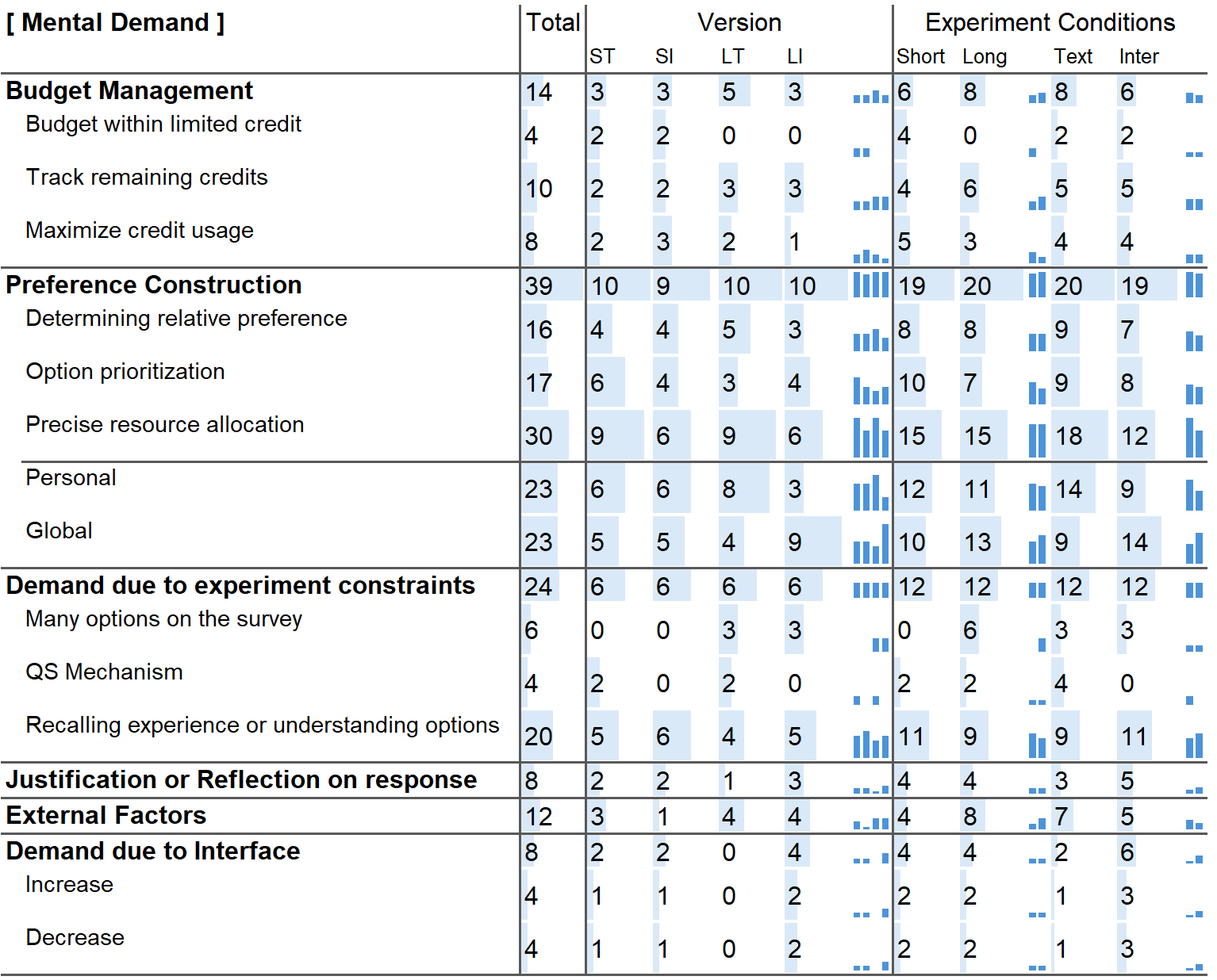
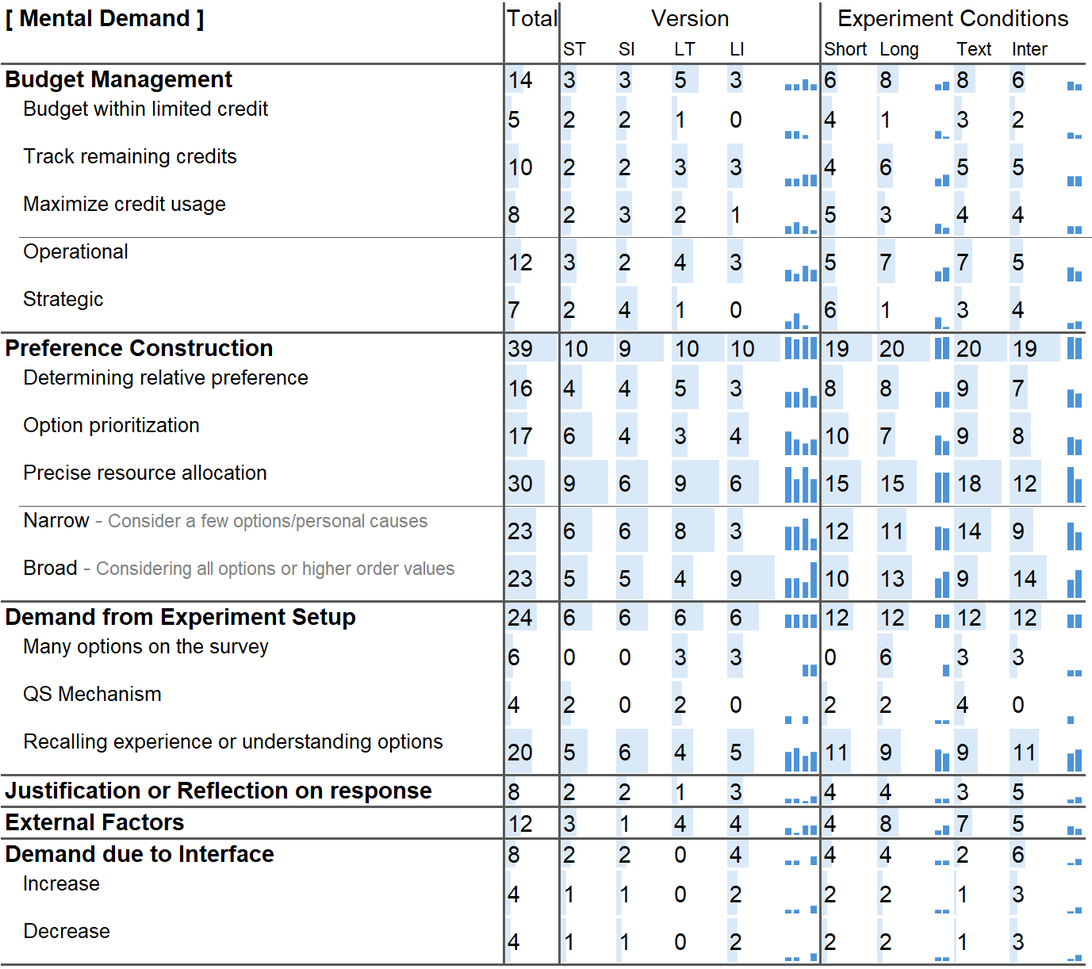
Update results

diff --git a/content/3.1_cognitive_load.tex b/content/3.1_cognitive_load.tex
@@ -30,19 +30,18 @@
 \end{figure}
 
 % maybe more the figure to the appendix?
-
-\vk{the binning here feels a bit narrow for how I feel like age is usually reported. Also is the 15-19 bin not just 18, and 19? Since 15 year olds weren't included, I probably wouldn't compare our percent to the national average}
-
-\section{Cognitive Load across interface and their sources}
+\section{Cognitive Load and Sources across Experiment Conditions}
 \label{sec:cog_result}
-In this section, we present the cognitive load across experiment groups, followed by the sources contributing to each cognitive load dimension. Given the limited number of participants, we focus on descriptive quantitative statistics and qualitative assessments of cognitive load. Quantitative data includes metrics collected during the survey tasks, while qualitative insights were generated from post-survey interviews, which were transcribed and thematically analyzed by the first author.
+In this section, we present the cognitive load across experiment groups and the sources contributing to each cognitive load dimension. Given the limited number of participants, we focus on descriptive statistics and qualitative assessments of cognitive load. Quantitative data includes metrics from the survey tasks, while qualitative insights come from post-survey interviews transcribed and analyzed by the first author.
 
-The results are organized as follows: We start with a description of participant demographics, followed by an overview of our cognitive load findings. We then examine six dimensions used in the NASA-TLX survey in the following order: mental demand, physical demand, temporal demand, performance, effort, and frustration. 
+The first author conducted an inductive thematic analysis process~\cite{olsonWaysKnowingHCI2014}. They coded snippets from each transcript based on specific research questions and topics of interest for the qualitative analysis. Similar codes were merged within each research question or topic to form relevant themes. When differences were hypothesized, they applied a deductive coding process to text snippets related to a specific research question or topic of interest.
+
+The results for this section are organized as follows: We start with participant demographics and then provide an overview of our cognitive load findings. We then examine the six dimensions used in the NASA-TLX survey: mental demand, physical demand, temporal demand, performance, effort, and frustration.
 
 \subsection{Demographics}
-We recruited a total of $41$ participants, allocating ten to each experiment condition. Due to data quality concerns, we excluded one participant's data\footnote{The participant expressed the experiment as a fake setup that they do not need to complete it seriously.}. The mean age of the participants was $34.63$ years old, with a detailed age distribution presented alongside the county population distribution in Figure~\ref{fig:demoAge}. This comparison reveals that our sample closely matches the county's demographic profile, albeit with a slightly higher representation of younger adults, particularly in the 35-45 age range. As shown in Figure~\ref{fig:demoGender}, the majority of participants skewed toward female.
+We recruited a total of $41$ participants, allocating ten to each experiment condition. Due to data quality concerns, we excluded one participant's data\footnote{The participant expressed the experiment as a fake setup that they do not need to complete it seriously.}. The mean age of the participants was $34.63$ years old, with a detailed age distribution presented alongside the county population distribution in Figure~\ref{fig:demoAge}. This comparison reveals that our sample closely matches the county's demographic profile, albeit with a slightly higher representation of younger adults, particularly in the 35-45 age range. As shown in Figure~\ref{fig:demoGender}, the majority of participants skewed toward females.
 
-Regarding ethnicity, $51.2\%$ of the participants identified as White, $26.8\%$ as Asian, $7.3\%$ as African American and $4.9\%$ as Hispanic. Additionally, $9.8\%$ of participants reported mixed ethnicity.
+Regarding ethnicity, $51.2\%$ of the participants identified as White, $26.8\%$ as Asian, $7.3\%$ as African American, and $4.9\%$ as Hispanic. Additionally, $9.8\%$ of participants reported mixed ethnicity.
 
 \subsection{Overall Cognitive Load}
 \label{sec:cog}
@@ -61,7 +60,7 @@ Regarding ethnicity, $51.2\%$ of the participants identified as White, $26.8\%$ 
         \caption{NASA-TLX Cognitive Interpretation}
         \label{fig:nasatlx-final2}
     \end{subfigure}
-    \caption{NASA-TLX Results}
+    \caption{This figure shows the box plot results for weighted NASA-TLX scores across experiment groups and participant counts based on individual score interpretations. In~\ref{fig:nasatlx-final1}, we observe a downward trend in cognitive load for the short QS, while the long QS shows an upward trend. Interestingly, there is a counterintuitive downward trend between short and long text interfaces. In~\ref{fig:nasatlx-final2}, these trends are clearer when NASA-TLX scores are grouped into five tiers.}
     \label{fig:nasatlx-final}
 \end{figure}
 
@@ -82,28 +81,13 @@ By deduction, if the interactive interface increased cognitive load in the long 
 
 \paragraph{Cognitive Overload Prevention by Interactive Interface} The long survey caused cognitive overload, but the interactive components may have prevented participants from taking mental shortcuts, which would typically reduce measured cognitive load~\cite{daniel2017thinking, simonBehavioralModelRational1955, payneAdaptiveStrategySelection1988, tverskyJudgmentsRepresentativeness}. This prevention could result in a higher cognitive load in the long interactive interface compared to the long text interface. In other words, the interactive interface may have shifted participants' cognitive load from some dimensions to others, maintaining their overall cognitive load at a higher level but not overloaded. If this is true, we expect to see differences among the qualitative explanations of sources, specifically differences in the perceived causes of cognitive load. We will explore this in the next subsections (Subsections~\ref{sec:mental}-\ref{sec:fustration}).
 
-\paragraph{A Pure Increase of Cognitive Load Due to Interactivity} It is also possible that the long survey introduced cognitive overload, and the interactive interface did not influence participants' preference construction but only increased cognitive load due to the added interactivity. In other words, participants are asked to perform additional operations with interactive elements that contributed to a higher cognitive load without providing sufficient cognitive benefits. If this is true, we should expect behavior data to show similar voting patterns across conditions, as the added interactions primarily focused on pre-organization of the options rather than influencing the decision-making process itself. We will explore this in the section~\ref{sec:behave_result}
+\paragraph{A Pure Increase of Cognitive Load Due to Interactivity} It is also possible that the long survey introduced cognitive overload, and the interactive interface did not influence participants' preference construction but only increased cognitive load due to the added interactivity. In other words, participants are asked to perform additional operations with interactive elements that contribute to a higher cognitive load without providing sufficient cognitive benefits. If this is true, we should expect behavior data to show similar voting patterns across conditions, as the added interactions primarily focused on the pre-organization of the options rather than influencing the decision-making process itself. We will explore this in the section~\ref{sec:behave_result}.
 
 We also acknowledge the possibility that the elicited values are pure noise and do not reflect the actual cognitive load. This could be due to the small sample size, the nature of the task, or the participants' understanding of the cognitive load scale. While this might be true for small sample sizes, we believe that the qualitative insights from the interviews provide a more nuanced understanding of the cognitive load sources. We detail these limitations in Section~\ref{sec:limitations}.
 
-/hs{ what was your process to identify themes?}
-/hs{Section 5.3 (snd section 5 overall) is too long. 
-
-Instead, you could break up section 5 into two sections, one on cognitive  load analysis and the other on behavioral analysis. 
-
-You need to explain in some detail, how you identified the codes for each facet; did you follow a well established process (cite). It'll be nice if you can add a table to summarize the statitucs from the qualitative sections (e.g. how many in each of the experimental consitions felt tha budget management was important to mental demand), You have all the data in the text, and a table would be helpful 
-
-In this new section 5, have a subsection for each of the six facets. Then, take each the six subfigures of fig 12, and use either a wrapfig environment or a side caption figure to insert each of the six subfigures into each of the subsections of this new section 5; this way, the figure will be adjacent to the text for enhanced readability.
-
-Each of the subsections corresponding to each of the dimensions of the scale, you should conclude with a takeaway mesaage. There is so much text here, and it will be easy to be lost.
-
-Section 5.5 and 5,6 should be in the behavioral analysis section
-
-Section 5.7 should be in a discussion section}
-
 % ============================================= %
 \begin{table}[h]
-    \caption{Mental Demand Table, needs to be updated with some new terms definitions for some of the columns.}
+    \caption{This table lists all the causes participants mentioned as contributing to their Mental Demand. The shaded cells represent the percentage of participants citing each source of mental demand, allowing for comparison within columns. The abbreviations are: ST (Short Text Interface), SI (Short Interactive Interface), LT (Long Text Interface), and LI (Long Interactive Interface). Short and Long refer to the sum across both interfaces; Text and Inter refer to the sum across both survey lengths. We include Sparklines for comparisons across these experiment groups.}
     \label{tbl:mental}
     \includegraphics[width=\linewidth]{content/image/cog/mental_table.png}
 \end{table}
@@ -112,12 +96,14 @@ Section 5.7 should be in a discussion section}
 
 \vspace{5pt}
 \begin{tldrbox}
-    \faInfoCircle~\xspace\textbf{Takeaway:} Participants across all groups highlighted \textit{Budget management}, \textit{Preference construction}, and \textit{Justification and response reflection} as cause of mental demand. We observed two notable difference: First, slightly more participants using the text interface reported mental demand from precisly determining number of votes for options compared to the interactive interface. Second, when it comes to long QS, participants using the long interactive interface considered broader societal impacts and evaluated options holistically compared to those in the long text interface, who focused on personal relevance and individual issues. 
+    \faInfoCircle~\xspace\textbf{Takeaway:} Participants across all groups highlighted~\textbf{budget management} and~\textbf{preference construction} as their primary sources of mental demand. We observed two key differences: First, slightly more participants using the text interface reported mental demand from precisely determining the number of votes for options compared to the interactive interface. Second, when it comes to long QS, participants using the long interactive interface considered broader societal impacts and evaluated options holistically, while those in the long text interface focused on personal relevance and individual issues. These differences indicate that the interactive interface encouraged deeper thinking, shifting the source of mental demand. % We find evidence that the interactive interface prevented cognitive overload.
 \end{tldrbox}
 
-Mental demand refers to the extent of mental and perceptual activity required. From the interview results, among all sources contributing to the increase of mental demand, we identified two major sources contributing to mental demand:~\textit{Budget management} and~\textit{Preference construction}. A detailed breakdown of participant distribution across different sources that influenced their mental demand is presented in Table~\ref{tbl:mental}. While $24$ participants mentioned experiment setup, most of them attributes it to understanding and recalling their experience related to the option. The other three sources directly associated with completing QS include: \textit{Budget management}, \textit{Preference construction}, and \textit{Justification and response reflection}.
+Mental demand refers to the extent of mental and perceptual activity required. Interview results showed the top two causes that increased participants' mental demand were~\textit{Budget management} and~\textit{Preference construction}. Table~\ref{tbl:mental} listed all causes. We discuss in detail below.
 
-\subsubsection{Mental Demand Source: Budget management} $14$ participants expressed demand from trying to budget within limited credit ($N=4$), track remaining credits ($N=10$), and maximize the use of credits ($N=8$). For example:
+Fourteen participants expressed demand from budgeting within limited credit (N=4), tracking remaining credits (N=10), and maximizing credit use (N=8). For example:
+
+\subsubsection{Mental Demand Source: Budget management} $14$ participants expressed demand from budgeting within limited credit ($N=4$), tracking remaining credits ($N=10$), and maximizing credit use ($N=8$). For example:
 
 \begin{displayquote}
 How many I got left that~\ldots\ that I haven't voted on yet, and seeing if I and looking at the remaining credits, I'm trying to mentally divide that up before I start allocating upvotes and downvotes.
@@ -131,9 +117,12 @@ And then I just wanted to make sure that I used all the credit that I had availa
 \noindent \hfill -- S032, short text interface, track remaining credits.
 \end{displayquote}
 
-In the first quote, the participant struggles with not running out of credit while allocating credits to options they haven't yet attributed. The second quote highlights the challenge of maximizing spend while ensuring sufficient differentiation. All these factors relate to effective budget management.
+In the first quote, the participant struggles with not running out of credit while allocating credits. The second quote highlights the challenge of maximizing spend while ensuring sufficient differentiation. Both relate to effective budget management.
 
-\subsubsection{Mental Demand Source: Preference construction} Almost all participants ($N=39$) experienced an increase in mental demand due to preference construction. This can be broken down into three sources: determining relative preference ($N=16$), where participants focus on internal evaluation and comparison among different options; option prioritization ($N=17$),  where participants make trade-offs to identify high-priority options and translate internal preferences into a subset of options; and precise resource allocation ($N=30$), where participants allocate specific values or adjustments to represent their preferences. For each of these sources, we show an example:
+We further categorized budget management causes as operational (completing an operation, e.g., using the last credit) or strategic (achieving a higher goal, e.g., spreading credits across options). Strategic planning does not refer to gaming out others or 'winning' a game but rather to high-level thinking processes that consider strategies and plans to tackle a challenge, compared to operational tasks such as adjusting a specific vote value. Most long survey participants reported operational causes, indicating they didn't face enough mental demand to consider additional strategies.
+
+\subsubsection{Mental Demand Source: Preference construction}
+Almost all participants ($N=39$) reported increased mental demand from preference construction. We broken it down into three sources: determining relative preference ($N=16$), option prioritization ($N=17$), and precise resource allocation ($N=30$), For example, participants would focus on internal evaluation and construct comparisons among different options:
 
 \begin{displayquote}
 Figuring out my priorities, and how much I prioritize option 1 over option 2. What is the difference between those 2 on my priority list?
@@ -142,6 +131,8 @@ Figuring out my priorities, and how much I prioritize option 1 over option 2. Wh
 \end{displayquote}
 
 % I think the whole time I was trying to balance, I think II think I partly was discovering my what's the word I want to use bias isn't quite right. My priorities (S031, I)
+
+Participants would locate higher priority options through trade-off decision making or map existing internal preferences into a subset of options:
 
 \begin{displayquote}
 I knew which ones that I wanted to dedicate the most to, and I knew which one I wanted to dedicate the least to. But it was that middle area that was kind of a grey area.
@@ -152,30 +143,27 @@ I knew which ones that I wanted to dedicate the most to, and I knew which one I 
 % I knew which ones that I wanted to dedicate the most to, and I knew which one I wanted to dedicate the least to. But it was that middle area that was kind of a grey area.
 % \noindent \hfill -- S024, short text interface, option prioritization
 
+Finally, participants tried to allocate specific values or make specific 
+adjustments to represent their preferences. 
+
 \begin{displayquote}
 I'm not sure how to put into words~\ldots like having to pick how many upvotes would go to each one
     
 \noindent \hfill -- S023, long text interface, precice resource allocation
 \end{displayquote}
 
-Almost all participants mentioned preference construction as a source of mental demand, echoing the theory that preference construction is a difficult and mentally demanding task. In addition, we notice slightly more participants using the text interface cited the cause of mental demand from precise resource allocation compared to the interactive interface ($18$ verses $12$). We conjecture that participants, with the help of the interactive interface, might have been able to make more informed decisions and thus experienced less mental demand in this area.
+Almost all participants mentioned preference construction as a source of mental demand, supporting the theory that preference construction is a difficult and mentally demanding task. Notably, more participants using the text interface reported mental demand from precise resource allocation compared to the interactive interface ($18$ vs. $12$). We conjecture that the interactive interface helped participants make more informed decisions, reducing their mental demands in this area.
 
-\subsubsection{Mental Demand Source: Justification and response reflection} $8$ participants expressed mental demand from justifying their choices and reflecting on their responses ($N=4$). Participants would either reflect whether the votes they allocated reflected their true preferences or whether the among of credit spent is worth it.
 
-\begin{wrapfigure}{r}{0.45\textwidth} % Adjust the width as needed
-    \centering
-    \includegraphics[width=0.45\textwidth, trim=0 13 0 13, clip]{content/image/cog/Mental_scores.pdf}
-    \captionsetup{width=0.40\textwidth, justification=justified} % Adjust the width to match the image width
-    \caption{Mental Demand Raw Score: Across all four experiment groups, participant's reported mental demand is spread across a wide range with many participants experiencing high mental demand.}
-    \label{fig:mental_cog_score}
-\end{wrapfigure}
+\subsubsection{Mental Demand Source: Other Sources}
+We identified four additional sources causing participants' mental demands: \textit{experiment setup}, \textit{number of options}, \textit{QS mechanism}, and \textit{external factors}. 
 
-\subsubsection{Long QS Conditions: A different scope of preference construction and budget management approach}
+$24$ participants mentioned the experiment setup mainly related to understanding and recalling their experience with the options. $6$ participants, all from the long QS, found the number of options added mental demand. $4$ participants cited working with getting familiar with the QS mechanism as a source of mental demand. These are sources related to the study design. $12$ participants mentioned external factors, such as considering the consequences of their results or the challenges decision-makers face. $4$ participants reported an increase and another four a reduction in mental demand due to the interface design. $8$ participants expressed mental demand from justifying their choices and reflecting on their responses, questioning whether their votes truly reflected their preferences or if the amount of credit spent was justified.
 
-While these sources are common across all experiment groups, we highlight a notable difference when we focus on participants across interfaces completing the long QS.~\textbf{They focus on a different scope of preference construction}.More specifically, participants ($N=8$) in the long text interface tend to experience mental demand from preference construction by thinking about issues more narrowly and focusing on personal relevance. Conversely, participants ($N=9$) in the long interactive interface experience higher mental demand from considering the broader societal impact and evaluating options more holistically. Only four participants in the long text interface expressed a holistic view, and three participants in the long interactive interface expressed a narrow and personal view.
+\subsubsection{Takeaway: A different scope of preference construction and budget management approach among long QS groups}
 
-/hs{What is "a holistic view"? why is it about the long text interface that prevents them evaluating options holistically?}
-/tc{Conjecture: choice overload -> heuristics -> so they become narrower}
+While these sources are common across all experiment groups, we highlight a notable difference when we focus on participants across interfaces completing the long QS. \textbf{They focus on a different scope of preference construction}. More specifically, participants ($N=8$) in the long text interface tend to experience mental demand from preference construction by thinking about issues more narrowly and focusing on personal relevance. Conversely, participants ($N=9$) in the long interactive interface experience higher mental demand from considering the broader societal impact and evaluating options more comprehensively. Only four participants in the long text interface expressed a comprehensive view, and three participants in the long interactive interface expressed a narrow and personal view.
+
 % \begin{displayquote}
 % \bracketellipsis also seeing the long list and obviously having to pick between quite a few things that I do feel very strongly about and having to figure out which ones do, I feel more strongly about than others.
     
@@ -200,65 +188,72 @@ Trying to figure out what upvotes I should give it you know~\ldots compared to~\
 \noindent \hfill -- S019, long interactive interface
 \end{displayquote}
 
-In the first quote, participants expressed mental demand narrowly focused on three options, trying to recall specific characteristics to differentiate among the options. In the second quote, participants consider how options play a role in society and the bigger picture, aiming to maximize impact. This difference indicates a shift in cognitive load from personal relevance to societal impact across the two long QS conditions. We conjecture that this represents participants in the long text interface are applying heuristics to narrow down their choices, while participants in the long interactive interface are considering a broader range of factors to make their decisions through the scaffolding provided by the interactive interface. 
+In the first quote, participants felt mental demand focusing on three options, trying to recall specific characteristics to differentiate them. In the second quote, participants considered the societal impact of options, aiming to maximize their effect. This difference highlighted our belief that the organization phase prompted participants to consider a broader range of factors in their decisions. Across both interfaces, participants in the long survey tended towards operational mental demands related to budget management. We argue the interactive interface prevented participants from using heuristics to narrow their choices, which only appeared when final votes were determined, an area with less support from the interface. We conclude the interactive interface scaffolded the decision-making process, preventing cognitive overload, and thus shifted mental demand sources. This shift explains why we did not notice significant differences in mental demand raw values (Figure~\ref{fig:mental_cog_score}) across the four experiment groups.
 
-/hs{put everything related to budget in one place; right now, you have budget, -> pref -> budget }/tc{TODO: Need to get the values of the participant count.}
-In addition, we also find that long text interface participants focused on more operational behaviors such as:
+% In addition, we also find that long text interface participants focused on more operational behaviors such as:
 
-\begin{displayquote}
-So I wanted to be fair.~\bracketellipsis I actually took my calculator out and said~\bracketellipsis  how much would it be if I equally distributed it and then how do I do that? Do I wanna do it all equally or not?
+% \begin{displayquote}
+% So I wanted to be fair.~\bracketellipsis I actually took my calculator out and said~\bracketellipsis  how much would it be if I equally distributed it and then how do I do that? Do I wanna do it all equally or not?
 
-\noindent \hfill -- S020, long text interface
-\end{displayquote}
+% \noindent \hfill -- S020, long text interface
+% \end{displayquote}
 
-compared to more procedures involving more strategic planning such as:
+% compared to more procedures involving more strategic planning such as:
 
-\begin{displayquote}
-I wanted to make sure I wanted to give some credit to everything~\bracketellipsis I'm trying to make sure that I had without doing a lot of~\ldots I guess redos is trying to kind of get it right the first time on how I weight things.
+% \begin{displayquote}
+% I wanted to make sure I wanted to give some credit to everything~\bracketellipsis I'm trying to make sure that I had without doing a lot of~\ldots I guess redos is trying to kind of get it right the first time on how I weight things.
 
-\noindent \hfill -- S032, long interactive interface
-\end{displayquote}
+% \noindent \hfill -- S032, long interactive interface
+% \end{displayquote}
 
-Strategic planning does not refer to gaming out others or 'winning' a game but rather to high-level thinking processes that consider strategies and plans to tackle a challenge, compared to operational tasks such as adjusting a specific vote value. While we did not notice significant differences in mental demand raw values (Figure~\ref{fig:mental_cog_score}) across the four experiment groups, the different actions regarding budget management and preference construction show a shift in mental demand across experiment conditions.
+
 
 % IN_T4: Wanting more information on the options (N=6/40)
 % 5. While the numbers seem small, non of this request came from v3. This could explain that participants are already overloaded from the existing the task.
 
+\begin{figure}[h]
+    \begin{minipage}[t]{0.45\textwidth}
+        \centering
+        \includegraphics[width=\textwidth, trim=0 13 0 13, clip]{content/image/cog/Mental_scores.pdf}
+        \captionsetup{width=0.9\textwidth, justification=justified}
+        \caption{Mental Demand Raw Score: Across all four experiment groups, participants' reported mental demand is spread across a wide range with many participants experiencing high mental demand.}
+        \label{fig:mental_cog_score}
+    \end{minipage}
+    \hfill
+    \begin{minipage}[t]{0.45\textwidth}
+        \centering
+        \includegraphics[width=\textwidth, trim=0 13 0 13, clip]{content/image/cog/Physical_scores.pdf}
+        \captionsetup{width=0.9\textwidth, justification=justified}
+        \caption{Physical Demand Raw Score: Participants other than the long interactive interface reported minimal physical demand. The long interactive interface had the highest physical demand, likely due to increased mouse clicks and extended time spent looking at the vertical screen.}
+        \label{fig:physical_cog_score}
+    \end{minipage}
+\end{figure}
+
 % ============================================= %
 \begin{table}[h]
-    \caption{Mental Demand Table, needs to be updated with some new terms definitions for some of the columns.}
+    \caption{Physical Demand Causes: Most participants expressed little or no physical demand. Results reflected that participants in the long interactive interface required more actions, hence the higher mention of mouse usage as a source.}
     \label{tbl:physical}
     \includegraphics[width=\linewidth]{content/image/cog/physical_table.png}
 \end{table}
+
 \subsection{Source of Physical Demand} 
 \label{sec:physical}
 
 \vspace{5pt}
 \begin{tldrbox}
-    \faInfoCircle~\xspace\textbf{Takeaway:} Participants across all groups highlighted \textit{Reading}, \textit{Using the mouse}, and \textit{navigating a vertical screen} as cause of physical demand. Most participants experienced little or minimal physical demand. Table~\ref{tbl:physical} shows the distribution of participants across different sources of physical demand.
+    \faInfoCircle~\xspace\textbf{Takeaway:} Participants across all groups highlighted \textit{reading}, \textit{using the mouse}, and \textit{navigating a vertical screen} as cause of physical demand. Most participants experienced little or minimal physical demand. Interactive interface users experienced higher physical demand due to increased mouse usage.
 \end{tldrbox}
-
-\begin{wrapfigure}{r}{0.45\textwidth} % Adjust the width as needed
-    \centering
-    \includegraphics[width=0.45\textwidth, trim=0 13 0 13, clip]{content/image/cog/Physical_scores.pdf}
-    \captionsetup{width=0.40\textwidth, justification=justified} % Adjust the width to match the image width
-    \caption{Physical Demand Raw Score: Participants other than the long interactive interface reported minimal physical demand. The long interactive interface had the highest physical demand, likely due to increased mouse clicks and extended time spent looking at the vertical screen.}
-    \label{fig:physical_cog_score}
-\end{wrapfigure}
 
 Physical demand refers to the physical effort required to complete a task, such as physical exertion or movement. Since this study involves participants sitting in front of a computer screen completing a survey, most participants reported minimal physical demand($N=32$). We nonetheless report the sources of this minimal demand, which include reading text on the screen ($N=4$), using the mouse ($N=16$), and moving their head to navigate the vertical screen ($N=5$). Participants emphasized that these demands were minimal, which is reflected in the low values reported in the NASA-TLX physical demand scores (Figure~\ref{fig:physical_cog_score})
 
-Notably, $11$ out of $20$ participants that used the interactive interface mentioned physical demand from using the mouse, reflecting their increased interaction with the interface. This is further supported by the raw NASA-TLX physical demand scores, which show a significance difference visually between short and long interactive interfaces as well as between text and interactive interfaces in long surveys. \hs{Would it be possible to not use NHST? It's difficult to convince a reviewer that you have statistical significance with a small subject pool ; the study is underpowered}
+Notably, $11$ out of $20$ participants who used the interactive interface mentioned physical demand from using the mouse, reflecting their increased interaction with the interface. Table~\ref{tbl:physical} shows the distribution of participants across different sources of physical demand. This is further supported by the raw NASA-TLX physical demand scores, which show a significant visual difference between short and long interactive interfaces as well as between text and interactive interfaces in long surveys.
 
 % ============================================= %
-\newpage % TODO: this is a temp solution, need to fix toward the end
 \begin{table}[h]
     \caption{Temporal Demand Table, needs to be updated with some new terms definitions for some of the columns.}
     \label{tbl:temporal}
     \includegraphics[width=\linewidth]{content/image/cog/temporal_table.png}
 \end{table}
-
-[I am some text before I can fix the layout.]
 
 \subsection{Source of Temporal Demand} 
 \label{sec:temporal}
